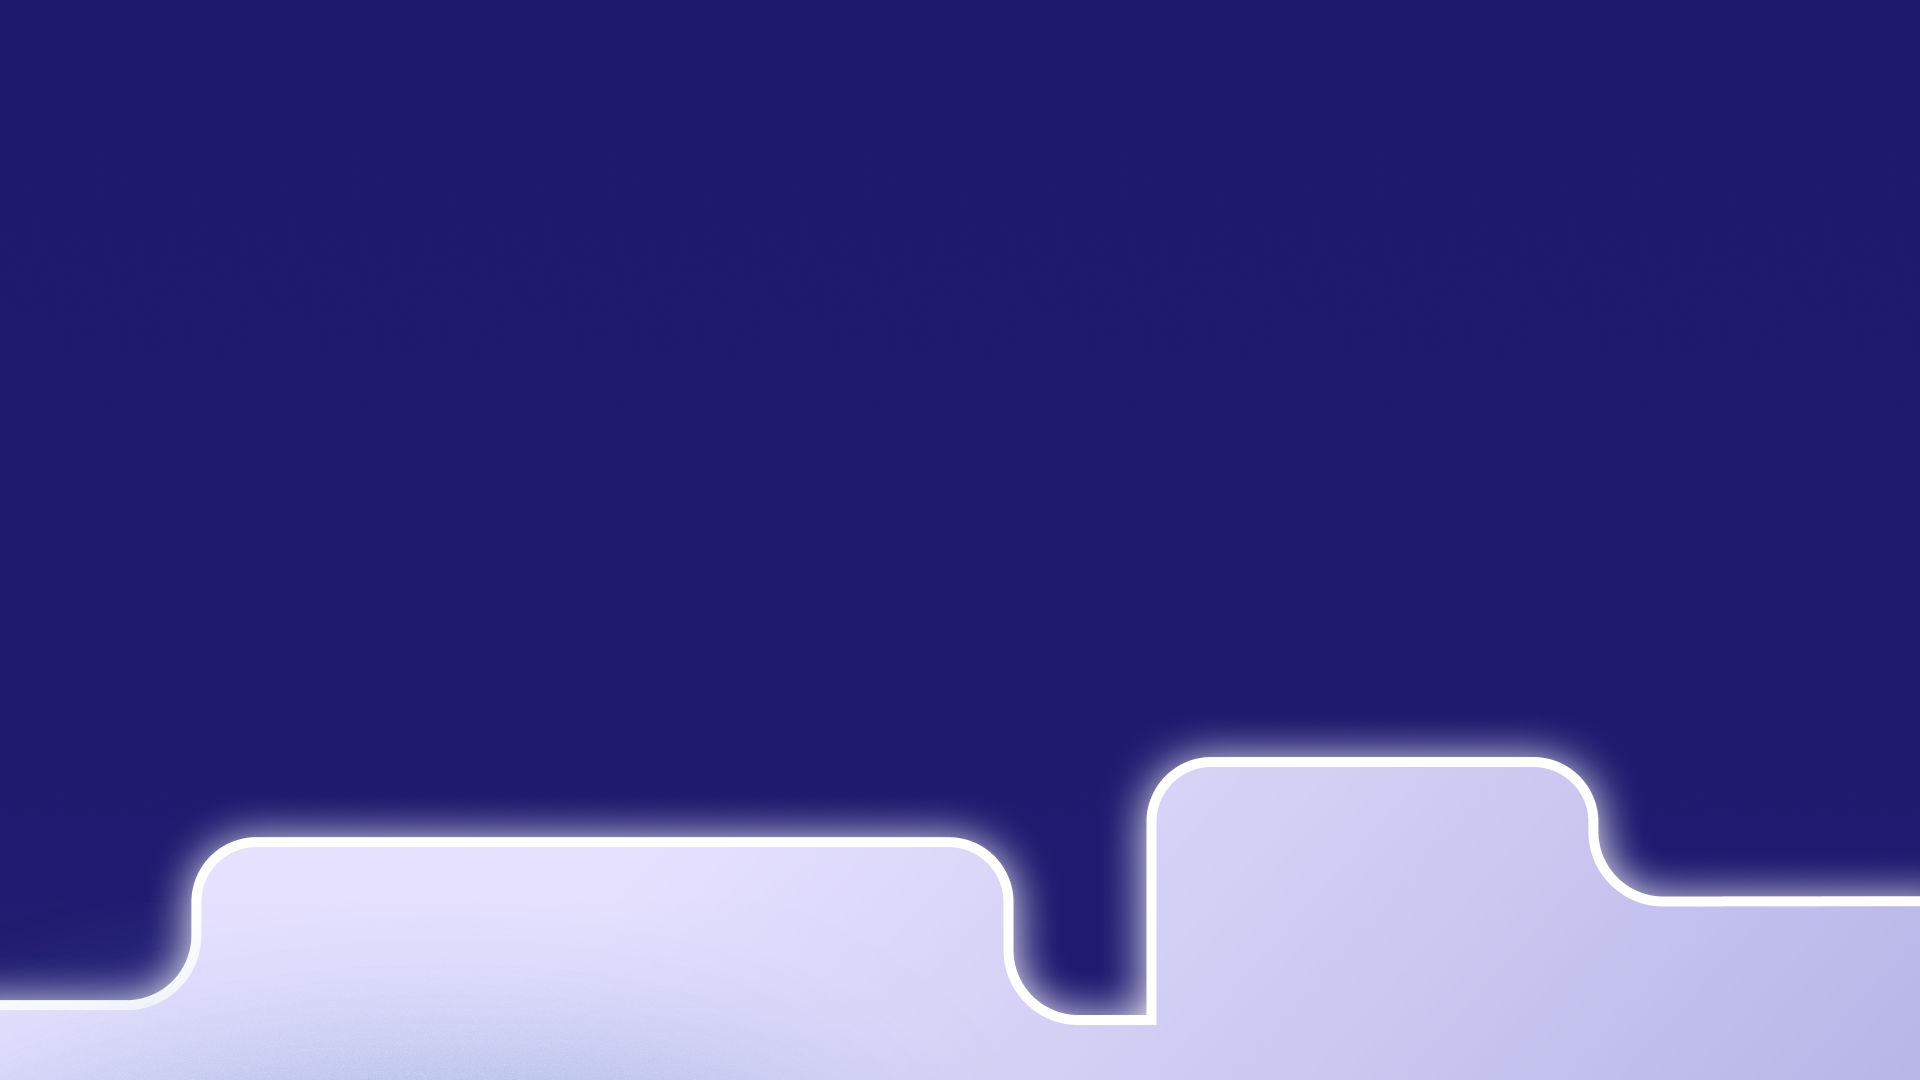
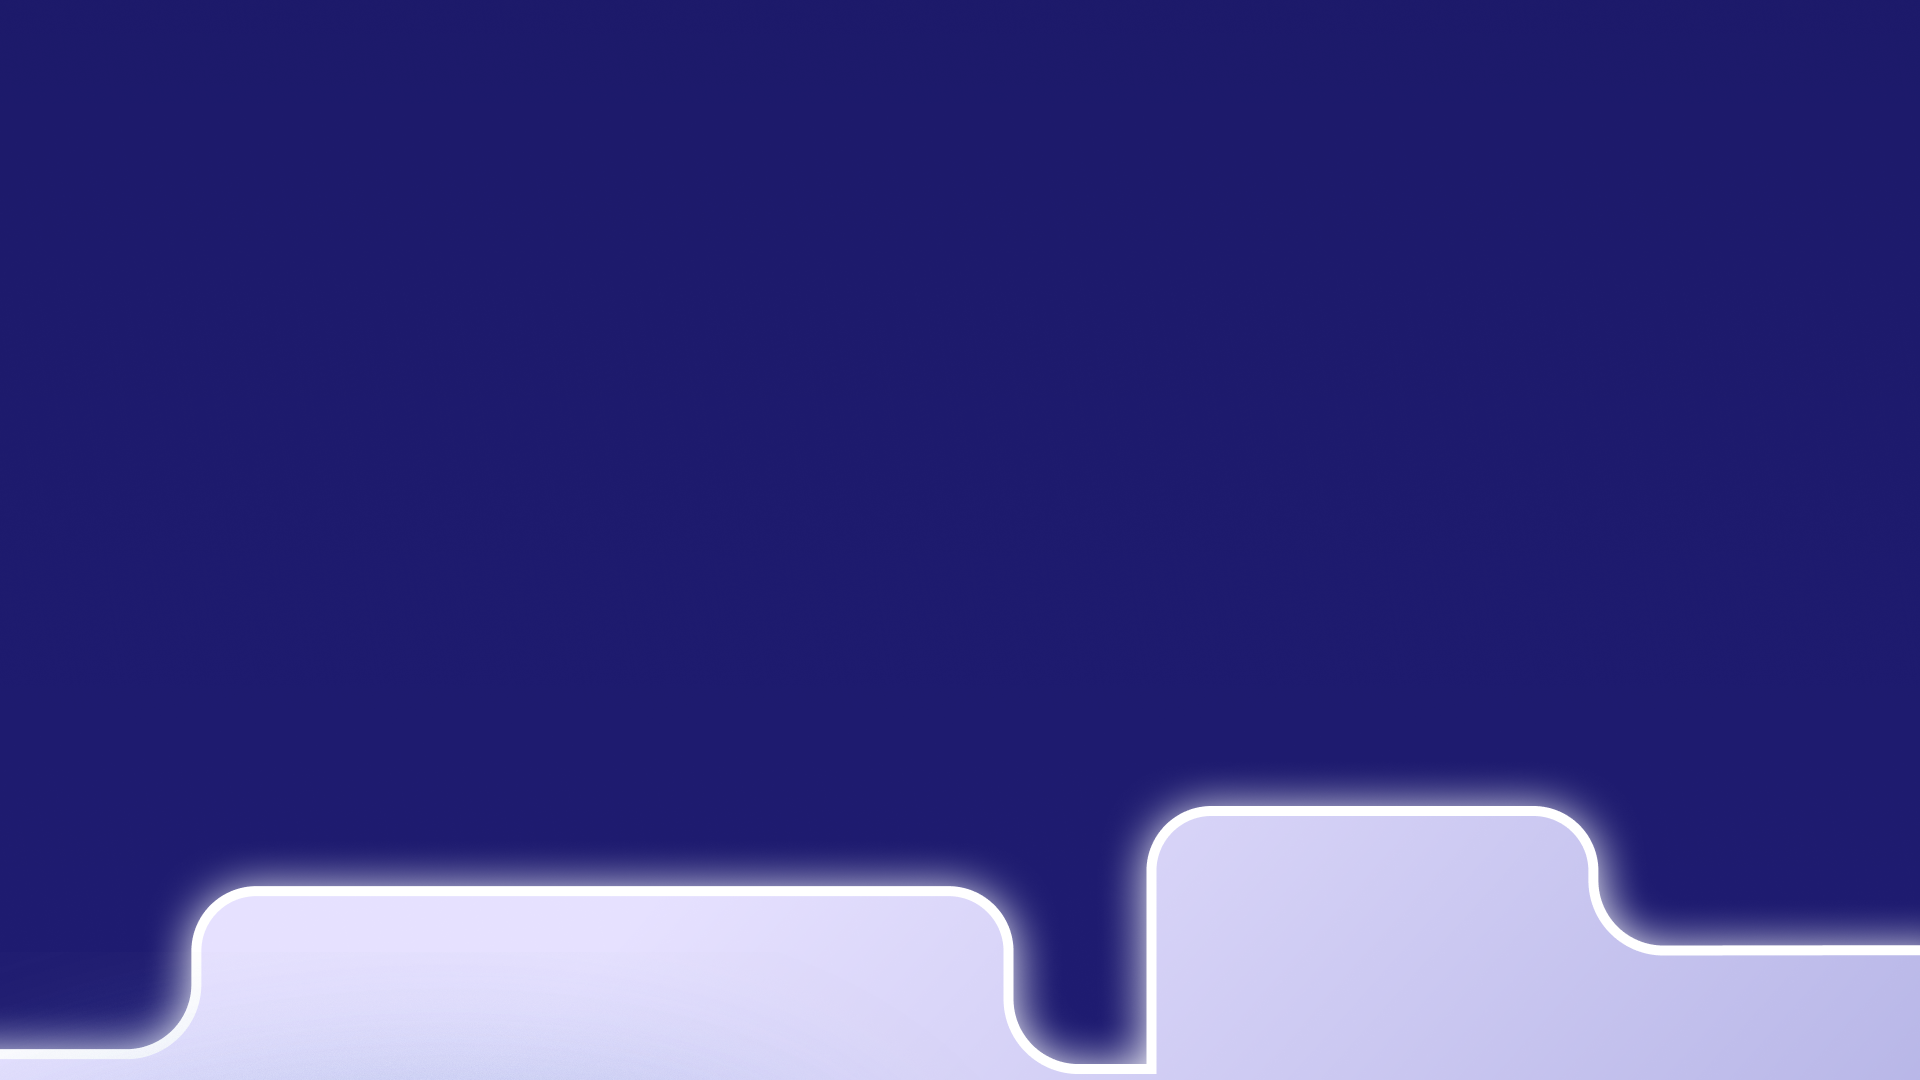
Add files via upload

Changed region(s): [[0.0, 0.7333, 0.5625, 1.0], [0.5625, 0.6722, 1.0, 0.8861], [0.5, 0.8861, 0.625, 1.0]]

diff --git a/index.html b/index.html
@@ -171,7 +171,7 @@
 
                 <div class="reason-description">
                     <p>
-                        PTA & Co.의 post - truth algorith(PTA)은 사용자 개개인의 심층적인 신념 체계와 정서적 반응에 대한 <br>정부 수집을 기반으로, 최첨단 알고리즘 기술과 개인 맞춤 콘텐츠 구성을 결합하여 사용자의 인지 현실을<br>완벽하게 재구성하고 몰입을 극대화하는 혁신적인 솔루션입니다.<br>
+                        PTA & Co.의 post - truth algorithm(PTA)은 사용자 개개인의 심층적인 신념 체계와 정서적 반응에 대한 <br>정부 수집을 기반으로, 최첨단 알고리즘 기술과 개인 맞춤 콘텐츠 구성을 결합하여 사용자의 인지 현실을<br>완벽하게 재구성하고 몰입을 극대화하는 혁신적인 솔루션입니다.<br>
                         저희 PTA는 단순한 사용자 참여 증대를 넘어 Post-truth 시대의 디지털 경험을 선도하며, 고객사의</br>압도적인 사용자 체류시간을 획기적으로 증대시키고 있습니다.
                     </p>
                 </div>
@@ -242,16 +242,7 @@
             </div>
         </section>
         
-        <section id="section-service-end" class="snap-section web-content p-16 flex flex-col justify-center items-center">
-            <div class="service-end-content max-w-9xl w-full">
-                <div class="service-end-hero">
-                    <div class="service-end-line"></div>
-                    <p>많은 학생이 <span style="color: #BBBAED;">단편적인 정보에 현혹</span>되거나, 출처 조사 없이 <span style="color: #BBBAED;">표면적인 요소만 보고 판단</span>하는 경향이 있어,<br>
-                        <span style="color: #BBBAED;">온라인 정보 분별 능력</span>이 전반적으로 부족하다 는 점이 드러났습니다.<br>
-                        이러한 취약점은 알고리즘이 제공하는 정보들을 무비판적으로 수용할 확률이 높습니다.</p>
-                </div>
-            </div>
-        </section>
+        
 
         <section id="section-service-subject" class="snap-section web-content p-16 flex flex-col justify-center items-center">
             <div class="service-subject-content">

diff --git a/style.css b/style.css
@@ -689,9 +689,14 @@ body[data-version="interaction-on"] #section-game {
 
 /* SECTION 4-1: 서비스 쇼케이스 */
 #section-service-showcase {
-    background-image: url('images/bg05.png');
+    background-image: url('images/bg06.png');
+    background-size: cover;
+    background-position: center top;
+    background-repeat: no-repeat;
     color: #FFFFFF;
     font-family: 'Pretendard', sans-serif;
+    position: relative;
+    margin-bottom: 0;
 }
 
 .service-showcase-content {
@@ -774,68 +779,17 @@ body[data-version="interaction-on"] #section-game {
     transform: rotate(180deg);
 }
 
-/* SECTION 4-2: 서비스 종료 리포트 */
-#section-service-end {
-    background-image: url('images/bg06.png');
-    background-size: cover;
-    background-position: center;
-    background-repeat: no-repeat;
-    color: #FFFFFF;
-    font-family: 'Pretendard', sans-serif;
-}
-
-.service-end-content {
-    width: 100%;
-}
-
-.service-end-hero {
-    display: flex;
-    flex-direction: column;
-    align-items: center;
-    text-align: center;
-    gap: 1.5rem;
-    margin-bottom: 2rem;
-}
-
-.service-end-line {
-    width: 2px;
-    height: 118px;
-    background-image: linear-gradient(#7A79A4 50%, transparent 50%);
-    background-size: 4px 8px;
-    position: relative;
-    margin-bottom: 50px;
-}
-
-.service-end-line::after {
-    content: "";
-    position: absolute;
-    bottom: -8px;
-    left: 50%;
-    transform: translateX(-50%);
-    width: 12px;
-    height: 12px;
-    border-radius: 50%;
-    background-color: #D7D7E4;
-}
-
-.service-end-hero p {
-    max-width: 1200px;
-    font-family: 'NeoDonggeunmo';
-    font-size: 20px;
-    line-height: 1.7;
-    color: #ffffff;
-    text-shadow: 0px 4px 16px #C8C6FF;
-    margin-bottom: 200px;
-}
 
 /* SECTION 4-3: 주요 관찰 대상 */
 #section-service-subject {
     background-image: url('images/bg07.png');
     background-size: cover;
-    background-position: center;
+    background-position: center top;
     background-repeat: no-repeat;
     color: #FFFFFF;
     font-family: 'Pretendard', sans-serif;
+    position: relative;
+    margin-top: 0; /* 섹션 간 간격 제거 */
 }
 
 .service-subject-content {
